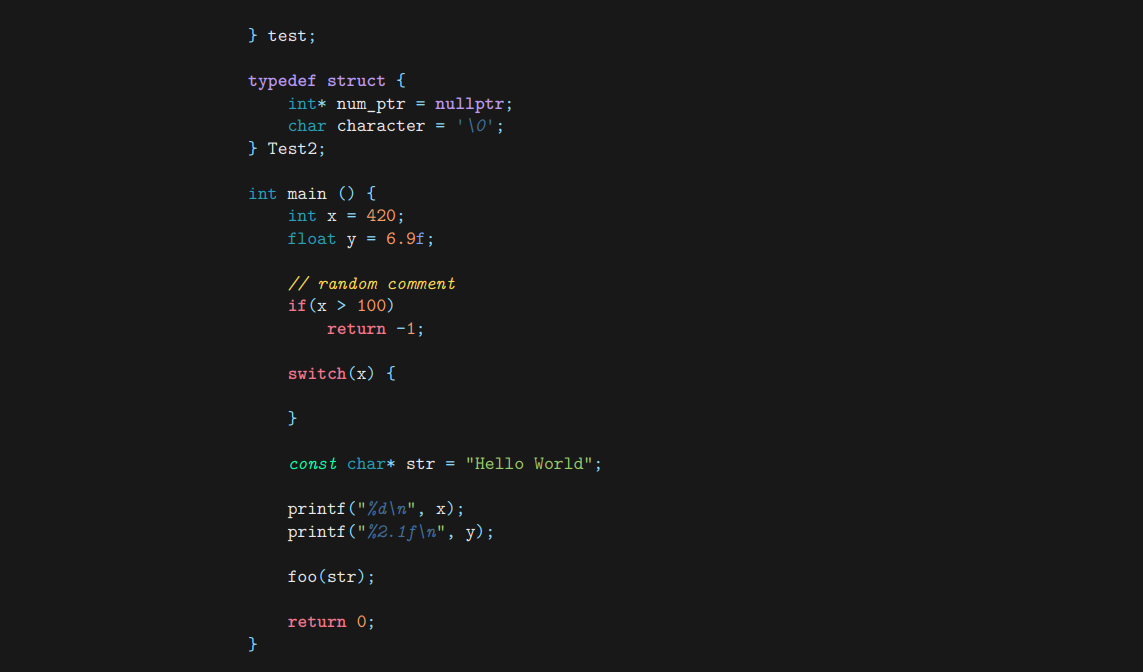
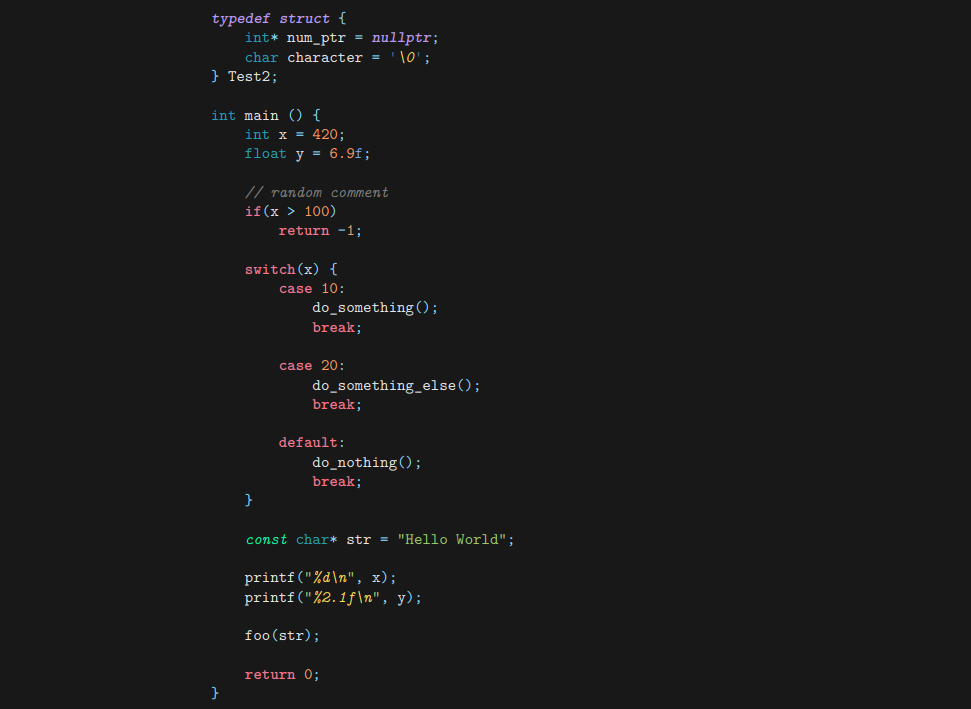
Updated: README, code block colors

Changed region(s): [[0.2163, 0.0, 0.5252, 0.7188], [0.2472, 0.75, 0.5252, 0.9688]]

diff --git a/template.tex b/template.tex
@@ -51,7 +51,7 @@
 \newcommand{\BaseNTok}[1]         {\textcolor[rgb]{0.25,0.63,0.44}{#1}}
 \newcommand{\BuiltInTok}[1]       {\textcolor[rgb]{0.47, 0.63, 0.97}{#1}}
 \newcommand{\CharTok}[1]          {\textcolor[rgb]{0.25,0.44,0.63}{#1}}
-\newcommand{\CommentTok}[1]       {\textcolor[rgb]{1.00, 0.86, 0.31}{\textit{#1}}}
+\newcommand{\CommentTok}[1]       {\textcolor[rgb]{0.5, 0.5, 0.5}{\textit{#1}}}
 \newcommand{\CommentVarTok}[1]    {\textcolor[rgb]{0.38,0.63,0.69}{\textbf{\textit{#1}}}}
 \newcommand{\ConstantTok}[1]      {\textcolor[rgb]{0.53,0.00,0.00}{#1}}
 \newcommand{\ControlFlowTok}[1]   {\textcolor[rgb]{0.97, 0.46, 0.55}{\textbf{#1}}}
@@ -64,14 +64,14 @@
 \newcommand{\FunctionTok}[1]      {\textcolor[rgb]{0.02,0.16,0.49}{#1}}
 \newcommand{\ImportTok}[1]        {\textcolor[rgb]{0.61, 0.80, 0.41}{\textbf{#1}}}
 \newcommand{\InformationTok}[1]   {\textcolor[rgb]{0.38,0.63,0.69}{\textbf{\textit{#1}}}}
-\newcommand{\KeywordTok}[1]       {\textcolor[rgb]{0.73, 0.60, 0.97}{\textbf{#1}}}
+\newcommand{\KeywordTok}[1]       {\textcolor[rgb]{0.73, 0.60, 0.97}{\textbf{\textit{#1}}}}
 \newcommand{\NormalTok}[1]        {#1}
 \newcommand{\OperatorTok}[1]      {\textcolor[rgb]{0.54, 0.86, 1.00}{#1}}
 \newcommand{\OtherTok}[1]         {\textcolor[rgb]{0.00,0.44,0.13}{#1}}
 \newcommand{\PreprocessorTok}[1]  {\textcolor[rgb]{0.47, 0.63, 0.97}{\textbf{\textit{#1}}}}
 \newcommand{\RegionMarkerTok}[1]  {#1}
-\newcommand{\SpecialCharTok}[1]   {\textcolor[rgb]{0.25,0.44,0.63}{\textit{#1}}}
-\newcommand{\SpecialStringTok}[1] {\textcolor[rgb]{0.73,0.40,0.53}{\textit{#1}}}
+\newcommand{\SpecialCharTok}[1]   {\textcolor[rgb]{1.00, 0.86, 0.31}{\textit{#1}}}
+\newcommand{\SpecialStringTok}[1] {\textcolor[rgb]{1.00, 0.86, 0.31}{\textit{#1}}}
 \newcommand{\StringTok}[1]        {\textcolor[rgb]{0.61, 0.80, 0.41}{#1}}
 \newcommand{\VariableTok}[1]      {\textcolor[rgb]{0.10,0.09,0.49}{#1}}
 \newcommand{\VerbatimStringTok}[1]{\textcolor[rgb]{0.25,0.44,0.63}{#1}}

diff --git a/README.md b/README.md
@@ -3,10 +3,6 @@ This project is just a template for generating documents according to my persona
 You may edit the following variables to change color scheme.
 
 ## Control parameters
-- `KEYWORDCOLOR`
-- `COMMENTCOLOR`
-- `STRINGCOLOR`
-- `NORMALTEXTCOLOR`
 - `SECTIONCOLOR`
 - `SUBSECTIONCOLOR`
 - `SUBSUBSECTIONCOLOR`
@@ -14,6 +10,7 @@ You may edit the following variables to change color scheme.
 - `SUBPARAGRAPHCOLOR`
 - `PAGECOLOR`
 - `TEXTCOLOR`
+- `linkcolor`
 
 ## Prerequisites
 - [Pandoc](https://pandoc.org/installing.html)
@@ -35,3 +32,7 @@ pandoc "input.md" -o <output> --template=template.tex --pdf-engine=xelatex
 ![img_1](assets/ss_1.png)
 ![img_2](assets/ss_2.png)
 ![img_3](assets/ss_3.png)
+![img_4](assets/ss_4.png)
+![img_5](assets/ss_5.png)
+![img_6](assets/ss_6.png)
+![img_7](assets/ss_7.png)
